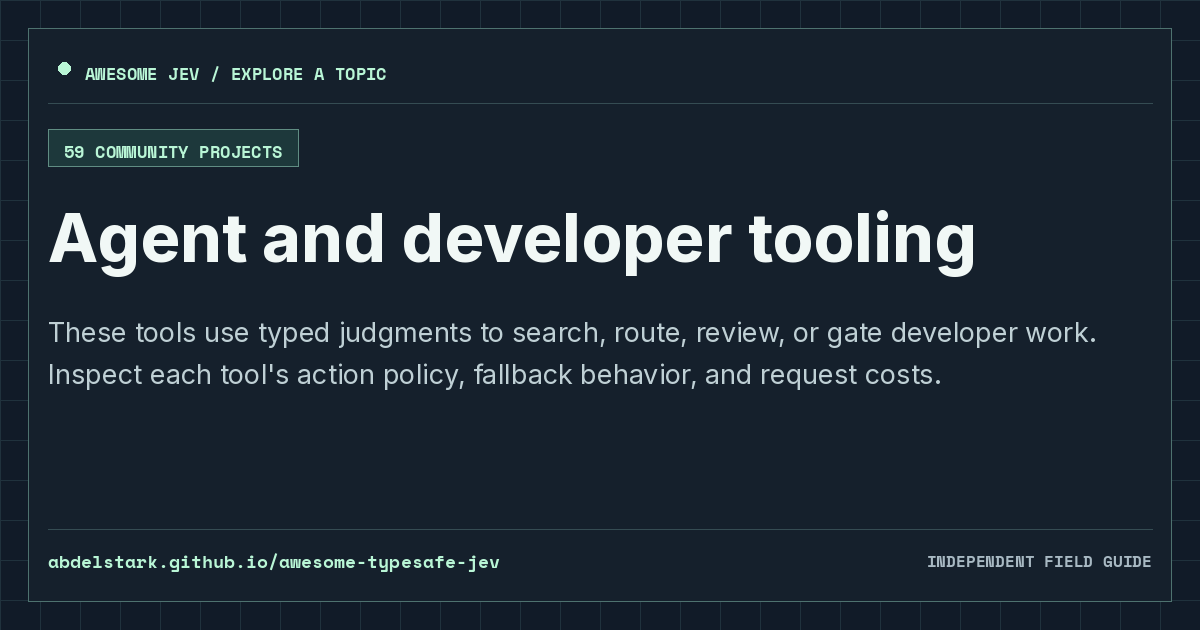
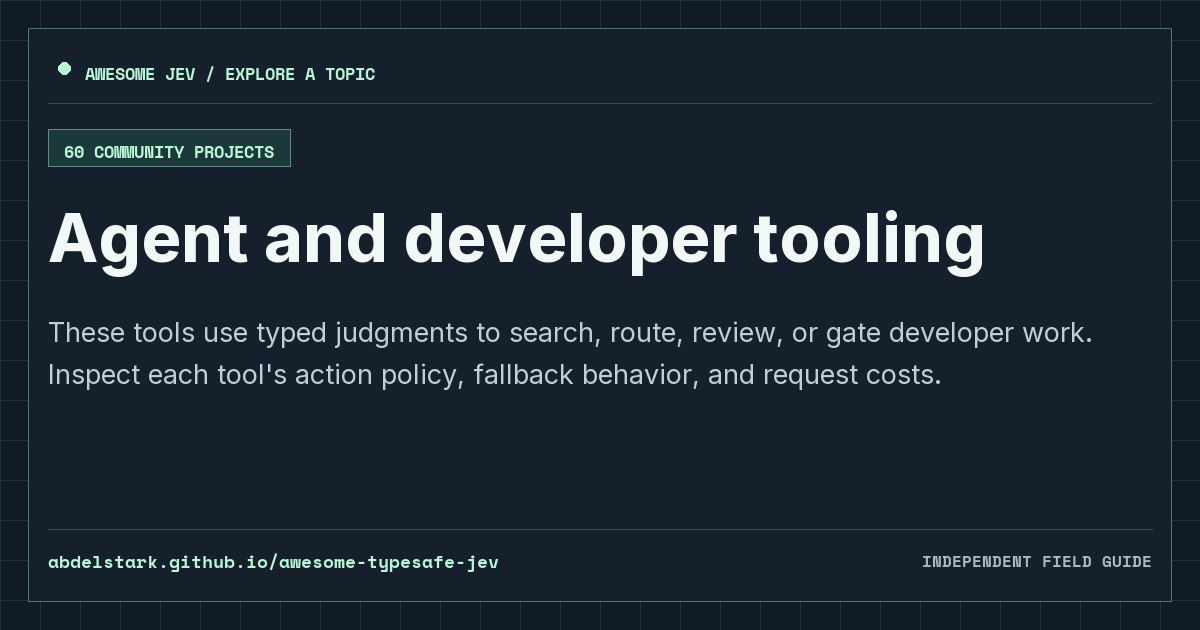
docs: add Switchboard (#88)

diff --git a/projects/gh-ruban-24-switchboard.html b/projects/gh-ruban-24-switchboard.html
@@ -1,0 +1,26 @@
+---
+layout: "resource"
+title: "Switchboard | Awesome Jev"
+description: "Local Claude Code and Codex wrapper that assesses a new conversation's task with Jev, applies local confidence policy to choose the model and reasoning effort, and pins that route through follow-ups, tool calls, and resume to avoid unnecessary prompt-cache disruption. It preserves native authentication and sends task text to the configured TypeSafe, Vercel, or OpenRouter Jev endpoint; raw prompt history is stored only when explicitly enabled."
+permalink: "/projects/gh-ruban-24-switchboard/"
+resource_name: "Switchboard"
+resource_slug: "gh-ruban-24-switchboard"
+resource_url: "https://github.com/ruban-24/switchboard"
+description_markdown: "Local Claude Code and Codex wrapper that assesses a new conversation's task with Jev, applies local confidence policy to choose the model and reasoning effort, and pins that route through follow-ups, tool calls, and resume to avoid unnecessary prompt-cache disruption. It preserves native authentication and sends task text to the configured TypeSafe, Vercel, or OpenRouter Jev endpoint; raw prompt history is stored only when explicitly enabled."
+category_name: "Agent and developer tooling"
+category_id: "agent-and-developer-tooling"
+social_image: "/assets/cards/gh-ruban-24-switchboard.png"
+related:
+  - name: "TypeSafe MCP"
+    permalink: "/projects/gh-itsmostafa-typesafe-mcp/"
+    description: "Go CLI and single-binary MCP server with setup for Claude Desktop, Claude Code, and Codex."
+    image: "/assets/cards/gh-itsmostafa-typesafe-mcp.png"
+  - name: "Vercel Eve"
+    permalink: "/projects/gh-vercel-eve/"
+    description: "Agent framework whose auto model router defaults to Jev through Vercel AI Gateway and whose evaluate helper asks typed Choice, Score, and Boolean questions inside tools; the underlying AI SDK evaluation model specification is experimental, and the caller owns routing and effects."
+    image: "/assets/cards/gh-vercel-eve.png"
+  - name: "wakegate"
+    permalink: "/projects/gh-shitianfang-wakegate/"
+    description: "Experimental TypeScript gate for long-running agents on Workers, Durable Objects, and Node: before a sleeping agent's LLM is resumed on a timer or incoming event, Jev answers one Choice (wake, not yet, unrelated) against the agent's own sleep note, and code skips the wakeup only below 0.2 on wake while always waking on user messages, bare timers, a skip limit, errors, and timeouts; its eval is 21 hand-written scenarios, not a benchmark."
+    image: "/assets/cards/gh-shitianfang-wakegate.png"
+---

diff --git a/projects/gh-supercorp-ai-supercov.html b/projects/gh-supercorp-ai-supercov.html
@@ -11,6 +11,10 @@ category_name: "Agent and developer tooling"
 category_id: "agent-and-developer-tooling"
 social_image: "/assets/cards/gh-supercorp-ai-supercov.png"
 related:
+  - name: "Switchboard"
+    permalink: "/projects/gh-ruban-24-switchboard/"
+    description: "Local Claude Code and Codex wrapper that assesses a new conversation's task with Jev, applies local confidence policy to choose the model and reasoning effort, and pins that route through follow-ups, tool calls, and resume to avoid unnecessary prompt-cache disruption. It preserves native authentication and sends task text to the configured TypeSafe, Vercel, or OpenRouter Jev endpoint; raw prompt history is stored only when explicitly enabled."
+    image: "/assets/cards/gh-ruban-24-switchboard.png"
   - name: "TypeSafe MCP"
     permalink: "/projects/gh-itsmostafa-typesafe-mcp/"
     description: "Go CLI and single-binary MCP server with setup for Claude Desktop, Claude Code, and Codex."
@@ -19,8 +23,4 @@ related:
     permalink: "/projects/gh-vercel-eve/"
     description: "Agent framework whose auto model router defaults to Jev through Vercel AI Gateway and whose evaluate helper asks typed Choice, Score, and Boolean questions inside tools; the underlying AI SDK evaluation model specification is experimental, and the caller owns routing and effects."
     image: "/assets/cards/gh-vercel-eve.png"
-  - name: "wakegate"
-    permalink: "/projects/gh-shitianfang-wakegate/"
-    description: "Experimental TypeScript gate for long-running agents on Workers, Durable Objects, and Node: before a sleeping agent's LLM is resumed on a timer or incoming event, Jev answers one Choice (wake, not yet, unrelated) against the agent's own sleep note, and code skips the wakeup only below 0.2 on wake while always waking on user messages, bare timers, a skip limit, errors, and timeouts; its eval is 21 hand-written scenarios, not a benchmark."
-    image: "/assets/cards/gh-shitianfang-wakegate.png"
 ---

diff --git a/projects/gh-danrwilloughby-snifftest.html b/projects/gh-danrwilloughby-snifftest.html
@@ -15,12 +15,12 @@ related:
     permalink: "/projects/gh-supercorp-ai-supercov/"
     description: "Code quality for coding agents: Jev scores each source file so the agent knows what to fix first."
     image: "/assets/cards/gh-supercorp-ai-supercov.png"
+  - name: "Switchboard"
+    permalink: "/projects/gh-ruban-24-switchboard/"
+    description: "Local Claude Code and Codex wrapper that assesses a new conversation's task with Jev, applies local confidence policy to choose the model and reasoning effort, and pins that route through follow-ups, tool calls, and resume to avoid unnecessary prompt-cache disruption. It preserves native authentication and sends task text to the configured TypeSafe, Vercel, or OpenRouter Jev endpoint; raw prompt history is stored only when explicitly enabled."
+    image: "/assets/cards/gh-ruban-24-switchboard.png"
   - name: "TypeSafe MCP"
     permalink: "/projects/gh-itsmostafa-typesafe-mcp/"
     description: "Go CLI and single-binary MCP server with setup for Claude Desktop, Claude Code, and Codex."
     image: "/assets/cards/gh-itsmostafa-typesafe-mcp.png"
-  - name: "Vercel Eve"
-    permalink: "/projects/gh-vercel-eve/"
-    description: "Agent framework whose auto model router defaults to Jev through Vercel AI Gateway and whose evaluate helper asks typed Choice, Score, and Boolean questions inside tools; the underlying AI SDK evaluation model specification is experimental, and the caller owns routing and effects."
-    image: "/assets/cards/gh-vercel-eve.png"
 ---

diff --git a/projects/gh-lukstei-slop-grader.html b/projects/gh-lukstei-slop-grader.html
@@ -19,8 +19,8 @@ related:
     permalink: "/projects/gh-supercorp-ai-supercov/"
     description: "Code quality for coding agents: Jev scores each source file so the agent knows what to fix first."
     image: "/assets/cards/gh-supercorp-ai-supercov.png"
-  - name: "TypeSafe MCP"
-    permalink: "/projects/gh-itsmostafa-typesafe-mcp/"
-    description: "Go CLI and single-binary MCP server with setup for Claude Desktop, Claude Code, and Codex."
-    image: "/assets/cards/gh-itsmostafa-typesafe-mcp.png"
+  - name: "Switchboard"
+    permalink: "/projects/gh-ruban-24-switchboard/"
+    description: "Local Claude Code and Codex wrapper that assesses a new conversation's task with Jev, applies local confidence policy to choose the model and reasoning effort, and pins that route through follow-ups, tool calls, and resume to avoid unnecessary prompt-cache disruption. It preserves native authentication and sends task text to the configured TypeSafe, Vercel, or OpenRouter Jev endpoint; raw prompt history is stored only when explicitly enabled."
+    image: "/assets/cards/gh-ruban-24-switchboard.png"
 ---

diff --git a/categories/agent-and-developer-tooling.html b/categories/agent-and-developer-tooling.html
@@ -287,6 +287,11 @@ resources:
     description: "Code quality for coding agents: Jev scores each source file so the agent knows what to fix first."
     permalink: "/projects/gh-supercorp-ai-supercov/"
     image: "/assets/cards/gh-supercorp-ai-supercov.png"
+  - name: "Switchboard"
+    url: "https://github.com/ruban-24/switchboard"
+    description: "Local Claude Code and Codex wrapper that assesses a new conversation's task with Jev, applies local confidence policy to choose the model and reasoning effort, and pins that route through follow-ups, tool calls, and resume to avoid unnecessary prompt-cache disruption. It preserves native authentication and sends task text to the configured TypeSafe, Vercel, or OpenRouter Jev endpoint; raw prompt history is stored only when explicitly enabled."
+    permalink: "/projects/gh-ruban-24-switchboard/"
+    image: "/assets/cards/gh-ruban-24-switchboard.png"
   - name: "TypeSafe MCP"
     url: "https://github.com/itsmostafa/typesafe-mcp"
     description: "Go CLI and single-binary MCP server with setup for Claude Desktop, Claude Code, and Codex."

diff --git a/README.md b/README.md
@@ -321,6 +321,7 @@ These tools use typed judgments to search, route, review, or gate developer work
 - [slop-grader](https://github.com/lukstei/slop-grader) — CLI tool that grades markdown and text files against custom rulesets for AI slop, grammar, and documentation quality using Jev scores and flags, then guides an AI agent to auto-fix violations.
 - [Sniff Test](https://github.com/DanRWilloughby/snifftest) — Prose linter with local countable rules and opt-in Jev Noul judgments over individual paragraphs, available as a CLI, pre-commit hook, and GitHub Action; its author-published comparison uses a small seeded corpus, with some judgment rules tuned on those same seeds.
 - [Supercov](https://github.com/supercorp-ai/supercov) — Code quality for coding agents: Jev scores each source file so the agent knows what to fix first.
+- [Switchboard](https://github.com/ruban-24/switchboard) — Local Claude Code and Codex wrapper that assesses a new conversation's task with Jev, applies local confidence policy to choose the model and reasoning effort, and pins that route through follow-ups, tool calls, and resume to avoid unnecessary prompt-cache disruption. It preserves native authentication and sends task text to the configured TypeSafe, Vercel, or OpenRouter Jev endpoint; raw prompt history is stored only when explicitly enabled.
 - [TypeSafe MCP](https://github.com/itsmostafa/typesafe-mcp) — Go CLI and single-binary MCP server with setup for Claude Desktop, Claude Code, and Codex.
 - [Vercel Eve](https://github.com/vercel/eve) — Agent framework whose `auto` model router defaults to Jev through Vercel AI Gateway and whose `evaluate` helper asks typed Choice, Score, and Boolean questions inside tools; the underlying AI SDK evaluation model specification is experimental, and the caller owns routing and effects.
 - [wakegate](https://github.com/shitianfang/wakegate) — Experimental TypeScript gate for long-running agents on Workers, Durable Objects, and Node: before a sleeping agent's LLM is resumed on a timer or incoming event, Jev answers one Choice (wake, not yet, unrelated) against the agent's own sleep note, and code skips the wakeup only below 0.2 on wake while always waking on user messages, bare timers, a skip limit, errors, and timeouts; its eval is 21 hand-written scenarios, not a benchmark.
